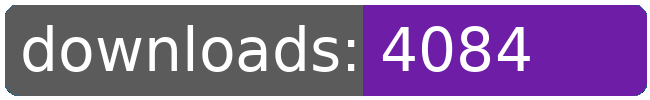
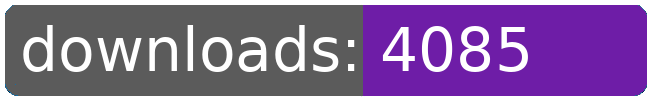
dl log written

Changed region(s): [[0.7692, 0.27, 0.8308, 0.72]]

diff --git a/README.md b/README.md
@@ -120,8 +120,8 @@
 		<td>5371</td>
 		<td>5385</td>
 		<td>5400</td>
-		<td>5410</td>
-		<td>+ 10</td>
+		<td>5411</td>
+		<td>+ 11</td>
 	</tr>
 	<tr>
 		<td>map.reveal</td>
@@ -263,8 +263,8 @@
 		<td>4043</td>
 		<td>4058</td>
 		<td>4072</td>
-		<td>4084</td>
-		<td>+ 12</td>
+		<td>4085</td>
+		<td>+ 13</td>
 	</tr>
 	<tr>
 		<td></td>
@@ -274,8 +274,8 @@
 		<td></td>
 		<td></td>
 		<td></td>
-		<td>101290</td>
-		<td>206</td>
+		<td>101292</td>
+		<td>208</td>
 	</tr>
 </table>
 </sub></sup>
@@ -355,8 +355,8 @@
 		<td>5371</td>
 		<td>5385</td>
 		<td>5400</td>
-		<td>5410</td>
-		<td>+ 10</td>
+		<td>5411</td>
+		<td>+ 11</td>
 	</tr>
 	<tr>
 		<td>quargoutfitter</td>
@@ -465,8 +465,8 @@
 		<td>4043</td>
 		<td>4058</td>
 		<td>4072</td>
-		<td>4084</td>
-		<td>+ 12</td>
+		<td>4085</td>
+		<td>+ 13</td>
 	</tr>
 	<tr>
 		<td>purchaseable.androids</td>
@@ -553,8 +553,8 @@
 		<td></td>
 		<td></td>
 		<td></td>
-		<td>101290</td>
-		<td>206</td>
+		<td>101292</td>
+		<td>208</td>
 	</tr>
 </table>
 </sub></sup>
